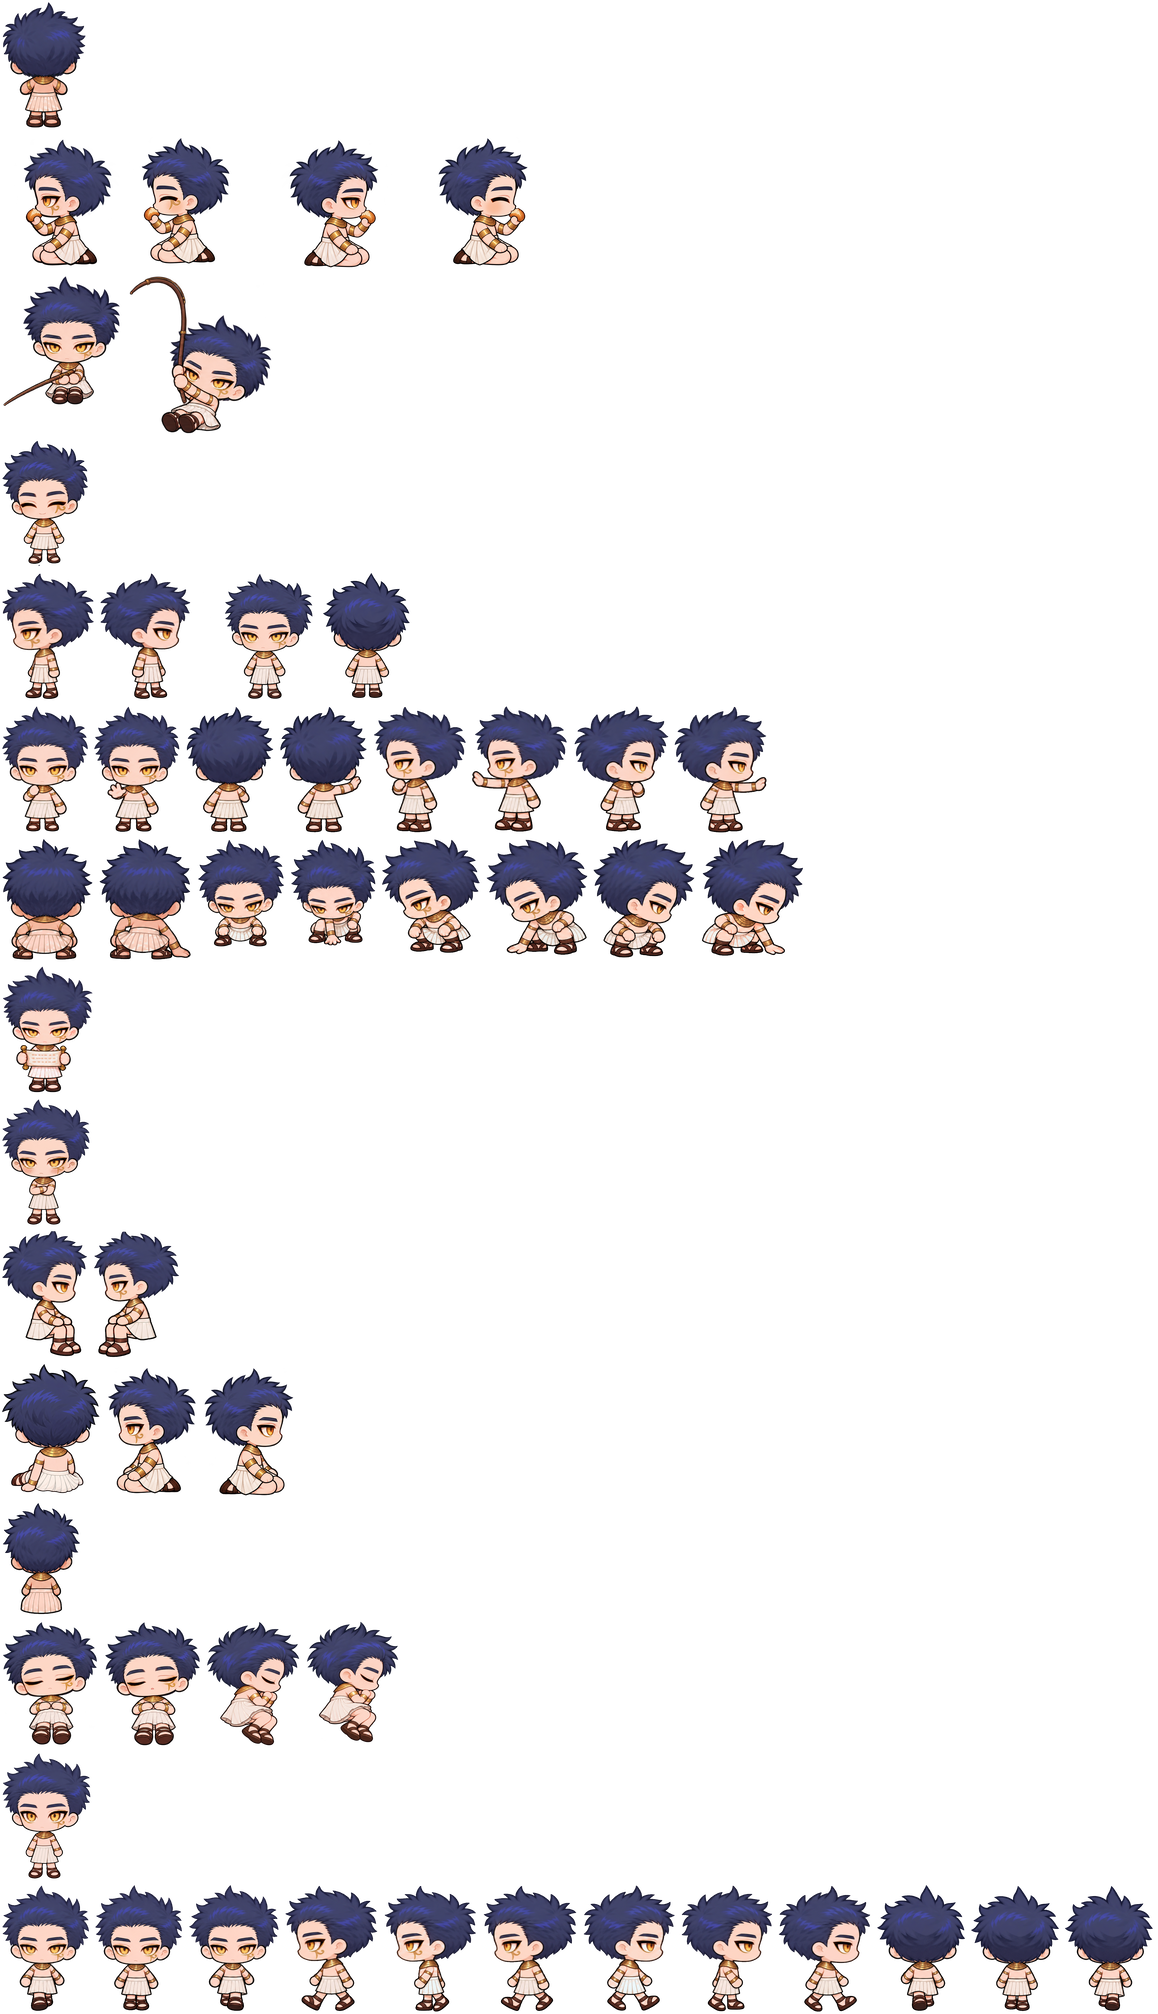
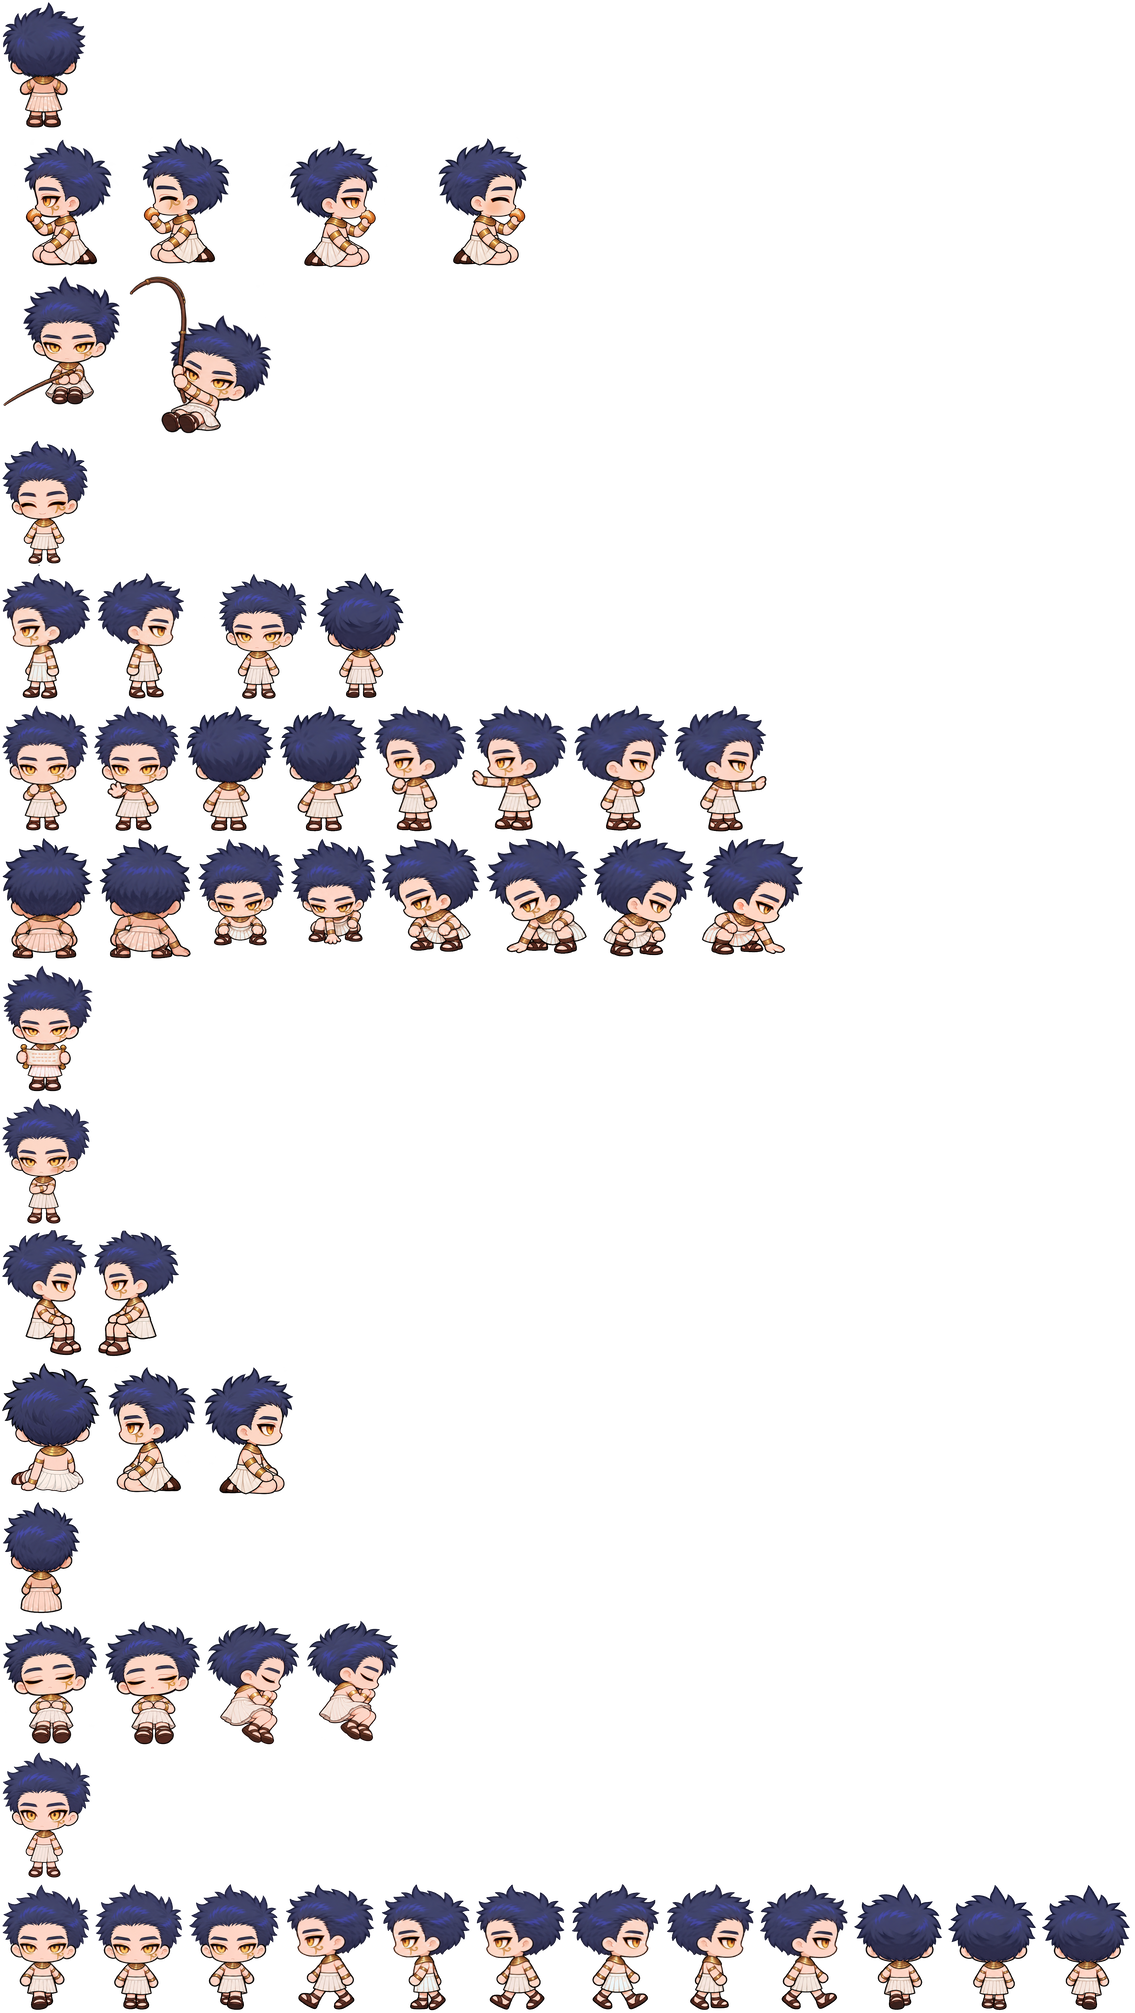
0.9.79 호루스 옆 정지·걷기 8장(피부색·머리 91 %) 다시 패킹
Claude-Session: https://claude.ai/code/session_012wVD34xUYduugGp5rrKwnw

diff --git a/src/core/settings.js b/src/core/settings.js
@@ -2,7 +2,7 @@
 
 import { ctx } from './st.js';
 
-export const VERSION = '0.9.78';
+export const VERSION = '0.9.79';
 export const MODULE = 'sand_feather';
 export const PROMPT_KEY = 'sand_feather_world';
 export const UI_THEMES = [

diff --git a/docs/OPUS-HANDOFF.md b/docs/OPUS-HANDOFF.md
@@ -1,6 +1,6 @@
 # 오푸스 인수인계 — 게임 적용과 코드 (지금 기준만)
 
-**오푸스용 문서다.** 갱신 2026-10-17, **0.9.78** 기준(새 호루스 전부 적용, 옆머리 낮춤). 처음 온 오푸스는 이 문서 하나만 처음부터 끝까지 읽으면 바로 일할 수 있게 썼다. 버전별 변경은 `CHANGELOG.md`, 작업별 상세는 아래 표의 기록 문서에 있다. 그림 작업 규칙은 아스트라용 [ASTRA-HANDOFF.md](ASTRA-HANDOFF.md)·[ASTRA-PLAN.md](ASTRA-PLAN.md)에 있다. 아트를 받을 때 채택 상태와 명세를 확인하는 용도로 본다.
+**오푸스용 문서다.** 갱신 2026-10-17, **0.9.79** 기준(새 호루스 전부 적용, 옆 정지·걷기 피부색·머리 91 %). 처음 온 오푸스는 이 문서 하나만 처음부터 끝까지 읽으면 바로 일할 수 있게 썼다. 버전별 변경은 `CHANGELOG.md`, 작업별 상세는 아래 표의 기록 문서에 있다. 그림 작업 규칙은 아스트라용 [ASTRA-HANDOFF.md](ASTRA-HANDOFF.md)·[ASTRA-PLAN.md](ASTRA-PLAN.md)에 있다. 아트를 받을 때 채택 상태와 명세를 확인하는 용도로 본다.
 
 ## 직접 하는 그림 손질 (`tools/art/fix/`)
 
@@ -98,7 +98,7 @@ SillyTavern 확장 "모래와 깃털"이다. 이집트 옴보스를 배경으로
 
 ## 버전과 검증
 
-- 버전은 `manifest.json`의 `version`과 `src/core/settings.js`의 `VERSION`을 같이 올린다. 지금은 **0.9.78**이다. 올릴 때 `CHANGELOG.md` 맨 위에 한 줄, README의 "현재 버전" 줄, 이 문서의 이 줄과 맨 위 기준 버전도 고친다. README에는 버전 내역을 쌓지 않는다.
+- 버전은 `manifest.json`의 `version`과 `src/core/settings.js`의 `VERSION`을 같이 올린다. 지금은 **0.9.79**이다. 올릴 때 `CHANGELOG.md` 맨 위에 한 줄, README의 "현재 버전" 줄, 이 문서의 이 줄과 맨 위 기준 버전도 고친다. README에는 버전 내역을 쌓지 않는다.
 - **배포(0.9.54~):** 사용자는 `release` 브랜치로 설치한다(main은 docs 그림 기록 때문에 1 GB 넘음, SillyTavern은 `auto_update`로 켤 때마다 git pull). 버전을 올리고 main에 푸시한 뒤 `sh tools/release.sh && git push origin release`로 release도 올린다. 스크립트는 `index.js`, `style.css`, `manifest.json`, `README.md`, `src/`, `data/`와 `data/*.json`이 가리키는 `../docs/` 그림만 담는다. 게임이 새로 docs 밖 파일을 읽게 되면 스크립트에 더한다. 확인은 `git clone --depth 1 --branch release`한 폴더를 확장 자리에 넣고 검증 스크립트를 돌린다.
 - 캐릭터 그림은 게임 창을 열 때 불러온다(`ensureSpriteArt`, `window.js openGame`). 그 전에 그림을 쓰는 코드를 만들면 먼저 `ensureSpriteArt()`를 기다린다.
 - **검증 스크립트 세 개**(`tools/art/`, ST가 떠 있고 확장이 들어가 있어야 함). 출력 폴더를 인자로 준다. 셋 다 exit 0이어야 한다:
@@ -124,7 +124,7 @@ SillyTavern 확장 "모래와 깃털"이다. 이집트 옴보스를 배경으로
   - `bed-measure.js <폴더> '<[누구,[x,y,방향],이름] 목록>' [방]`: 한 사람만 침대 자리에 눕힌 화면과 뺀 화면. 두 장 차이의 박스가 그 사람(머리 위끝·턱 높이 재기)
   - 폰 크기는 412×900. 안채나 맵을 고치면 출구 걷기·낮밤도 본다.
 
-## 게임 지금 상태 — 0.9.78
+## 게임 지금 상태 — 0.9.79
 
 두아트 7맵은 입구의 「두아트 들어가기」로 상시 무료 탐색한다. 위·아래 출구로 왕복하며 기존 카드 원정은 별도 버튼으로 하루 한 번·태양 기운 3 규칙을 유지한다. +55% 배율, 배경·캐릭터 원색. 회랑(02)은 승인된 수동 경계와 최종 파랑·노랑 선(물가·기둥·계단) 수정, 나머지 6맵은 사용자 요청대로 기존 임시 경계다. 나머지 6맵 정밀 경계는 다음 작업. 생성기 `tools/maps/duat.py`, 회랑 좌표 `tools/maps/duat-boundaries/02.json`, 검증 `tools/st-test/duat-maps.cjs`. 전투·몹은 미적용.
 

diff --git a/CHANGELOG.md b/CHANGELOG.md
@@ -1,5 +1,9 @@
 # 버전 기록 — 모래와 깃털
 
+## 0.9.79
+
+호루스 옆 정지·걷기 8장 피부색 다시 맞춤, 머리 91 %(다시 패킹).
+
 ## 0.9.78
 
 호루스 옆모습(정지·걷기·상호작용 좌우 12장, 긴 의자 앉기 2장) 머리를 세트처럼 낮게: 머리 높이만 93 %, 폭과 몸은 그대로(`headshrink.py` 0.93 뒤 `faceslim.py` 1/0.93). 옆 줍기 크기는 0.9.77 값으로 고정해 그대로. 잠·줍기·바닥(방석) 앉기·먹기 그림은 안 바꿈. 호루스 전 그림(마시기 빼고 59장)의 머리색·파란 하이라이트·피부색을 사용자가 보낸 정면 그림 색으로 맞춤(모양은 그대로). 뒷모습 방석 앉기 머리 94 %(몸 크기 그대로).

diff --git a/README.md b/README.md
@@ -22,7 +22,7 @@
 
 세트·호루스 RP 채팅 옆에서 돌아가는 이집트 오픈월드 게임이다. SillyTavern 확장으로 동작한다.
 
-**현재 버전 0.9.78.** 버전별 변경 내역은 [CHANGELOG.md](CHANGELOG.md)에 있다.
+**현재 버전 0.9.79.** 버전별 변경 내역은 [CHANGELOG.md](CHANGELOG.md)에 있다.
 
 **설치는 `release` 브랜치로 한다.** SillyTavern 확장 설치에서 주소 `https://github.com/yigasda/SandAndFeather`, 브랜치 `release`. main은 그림 작업 기록(1 GB 넘음)까지 들어 있어서, main으로 깔면 SillyTavern이 켤 때마다 자동 업데이트로 그걸 다 받느라 느려진다. release는 게임이 쓰는 파일만(약 100 MB).
 
